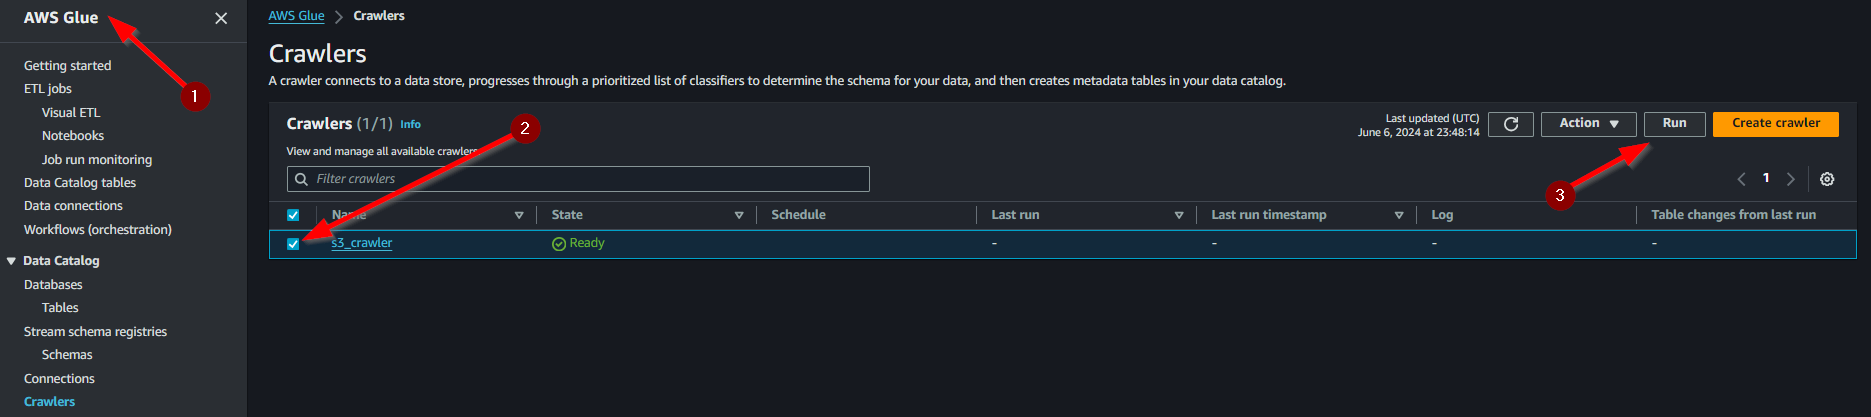
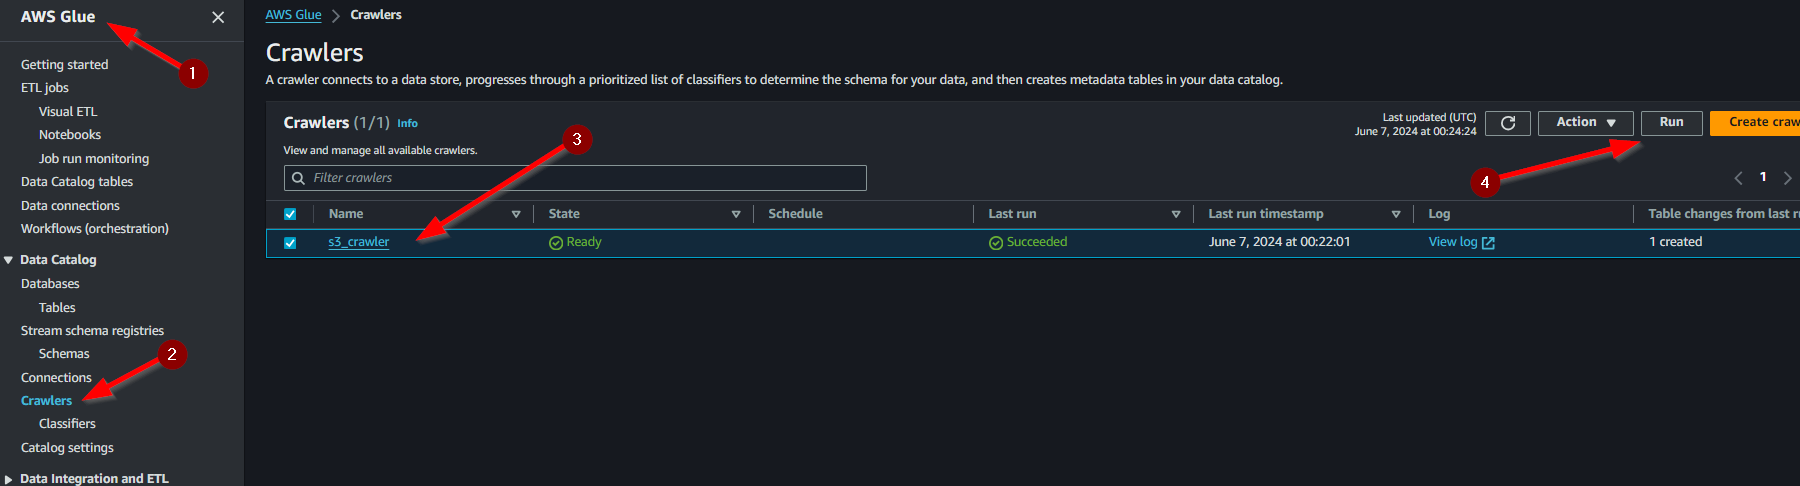
final commit

Changed region(s): [[0.0, 0.0624, 1.0, 1.0], [0.0933, 0.0, 0.2178, 0.0624], [0.0, 0.0, 0.0622, 0.0624]]

diff --git a/terraform/README.md b/terraform/README.md
@@ -256,15 +256,15 @@ module "data_platform_dev" {
 2. **Entorno de Producción**
 
 ```hcl
-module "data_platform_dev" {
-    source = "./data_platform_module"
+module "data_platform_prod" { #Se cambia el nombre del módulo
+    source = "./data_platform_module" #Se usa el mismo origen
     
     environment = "prod" #Se cambia el valor de environment
     company     = "handytec"
     project     = "data_platform"
 }
 ```
-Simplemente en el archivo [main.tf](main.tf) agregaríamos nuevamente la sección de `module` debajo del que ya existe pero cambiando el valor de `environment`.
+Simplemente en el archivo [main.tf](main.tf) agregaríamos nuevamente la sección de `module` debajo del que ya existe pero cambiando el nombre del modulo y valor de `environment`.
 
 ## Pruebas
 
@@ -281,6 +281,7 @@ Una vez desplegada la infraestructura podemos probar el integrador de datos subi
 3. **Ir a AWS Glue luego a Crawlers, seleccionar el crawler y  ejecutar**
 
 ![alt text](./imagenes/crawler.png)
+![alt text](image.png)
 
 **Esperar a que termine de correr el crawler**
 
